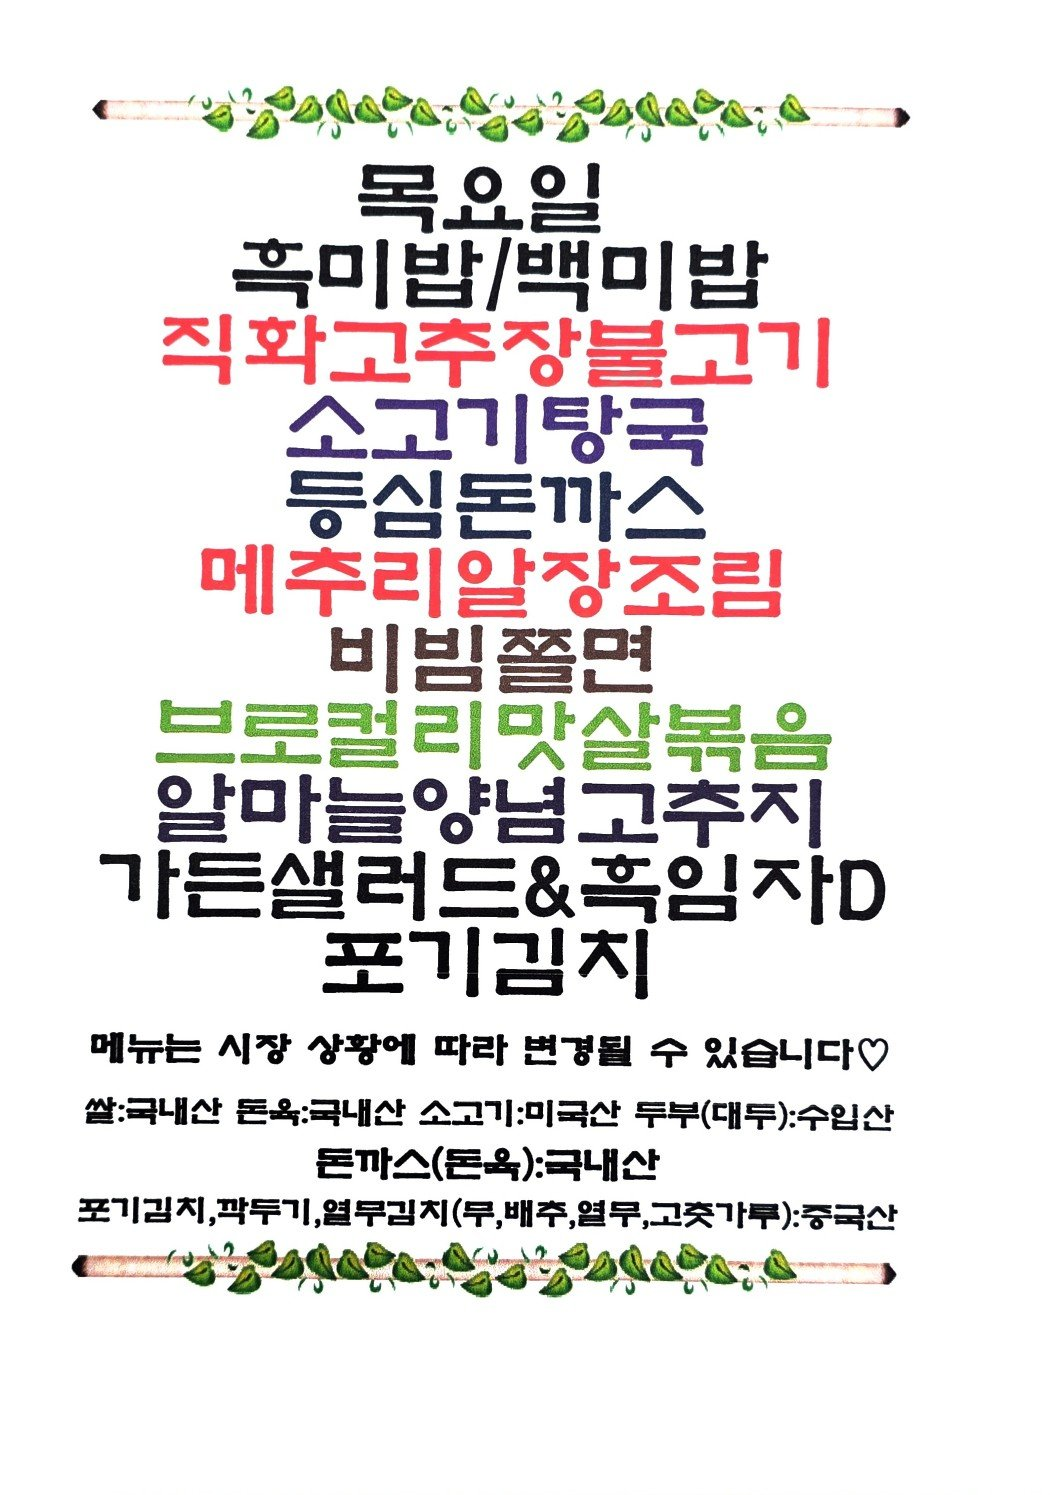
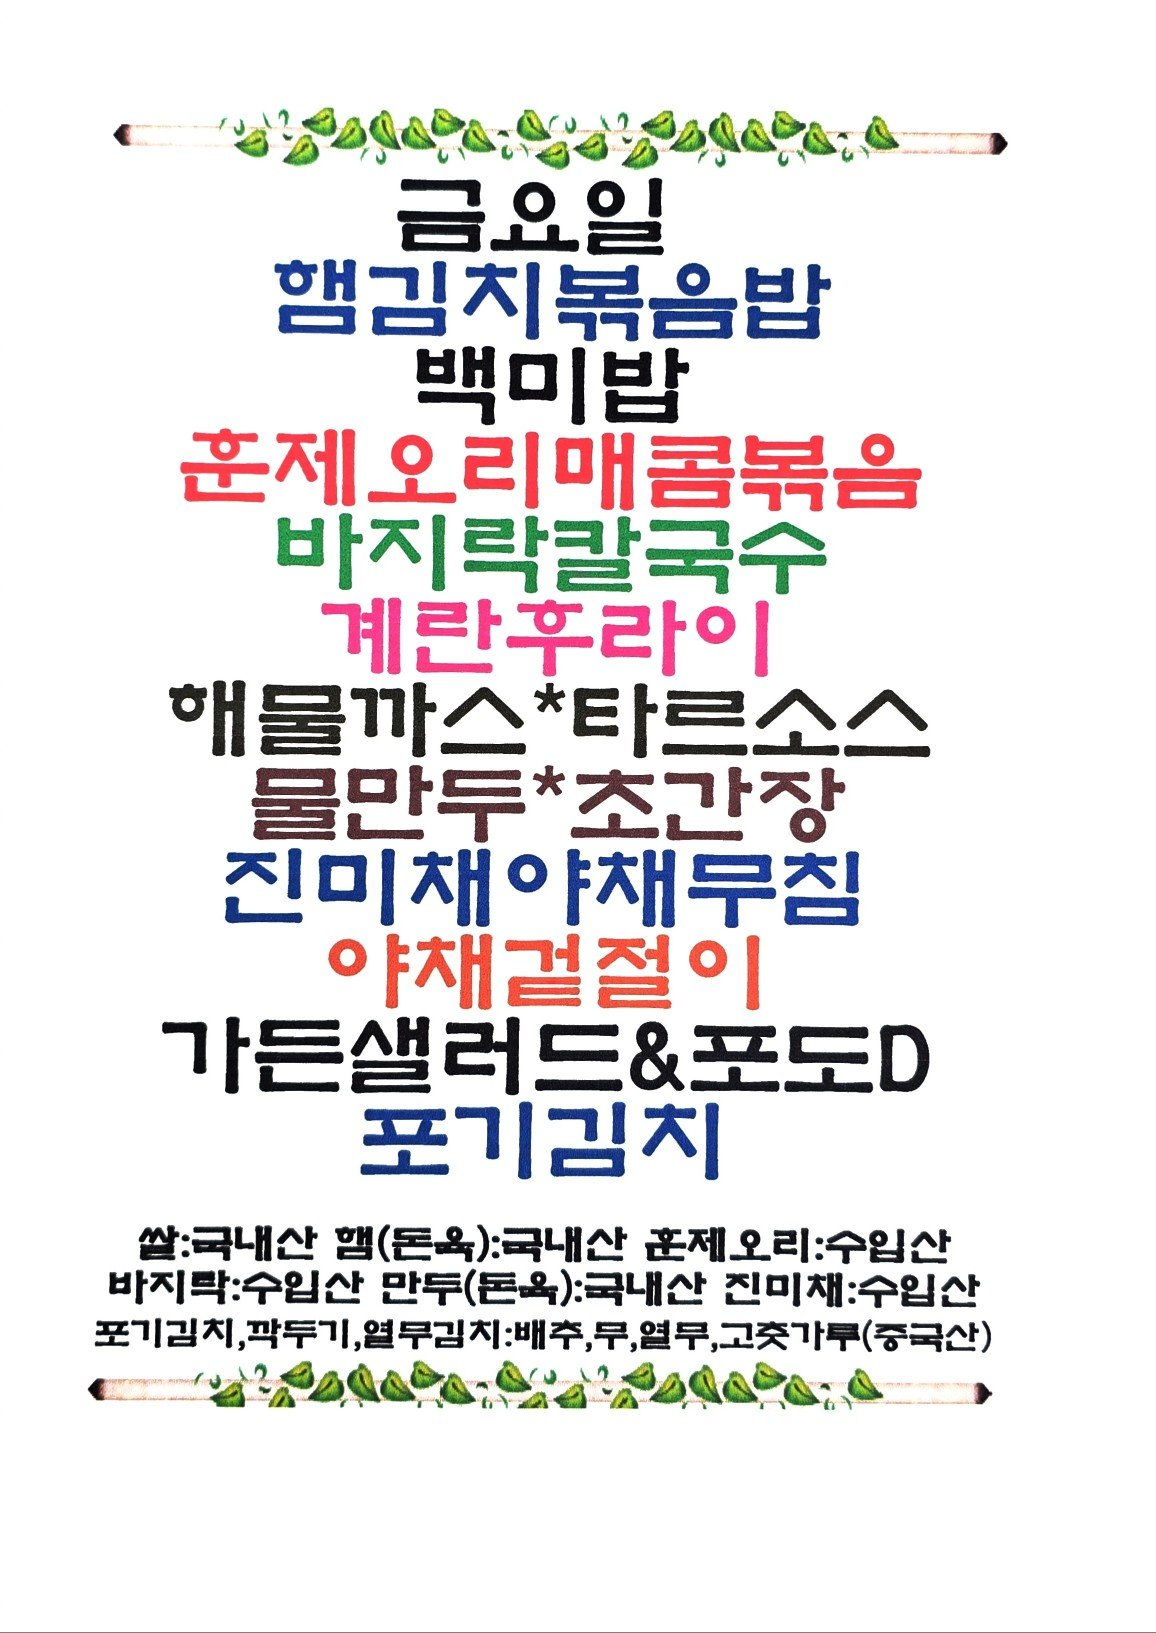
Update menu board assets

Changed region(s): [[0.061, 0.0615, 0.8838, 0.8923]]

diff --git a/menu-today/index.html b/menu-today/index.html
@@ -209,7 +209,7 @@
 
     <section class="meta-bar">
       <div class="meta-card"><div class="meta-label">기준 날짜</div><div class="meta-value">2026년 9월 18일 금요일</div></div>
-      <div class="meta-card"><div class="meta-label">최종 가져온 시간</div><div class="meta-value">2026-09-18 09:47:47</div></div>
+      <div class="meta-card"><div class="meta-label">최종 가져온 시간</div><div class="meta-value">2026-09-18 10:02:50</div></div>
       <div class="meta-card"><div class="meta-label">확인 완료</div><div class="meta-value">9개 식당</div></div>
       <div class="meta-card"><div class="meta-label">준비중</div><div class="meta-value">3개 채널</div></div>
     </section>
@@ -295,7 +295,7 @@
             <div class="sub">에이스테크노타워10차</div>
           </div>
         </div>
-        <div class="menu-inline-image"><img src="./images/thefoodsketch.png" alt="더푸드스케치 식단 이미지"></div><ul><li>전 때</li><li>닭공탕</li><li>숫불돼지갈비구이</li><li>고구마맛탕</li><li>그 몬테크리스토</li><li>치즈떡볶이</li><li>유자무쌈</li><li>가든샐러드 / 드레싱</li><li>배주껄절이 / 음료</li></ul>
+        <div class="menu-inline-image"><img src="./images/thefoodsketch.png" alt="더푸드스케치 식단 이미지"></div><ul><li>전 때</li><li>닭공탕</li><li>숫불돼지갈비구이</li><li>고구마맛탕</li><li>그 몬테크리스토</li><li>치즈떡볶이</li><li>유자무쌈</li><li>가든샐러드 &amp; 드레싱</li><li>배주껄절이 / 음료</li></ul>
       </article>
 
       <article class="restaurant-card">
@@ -305,7 +305,7 @@
             <div class="sub">스타밸리</div>
           </div>
         </div>
-        <div class="menu-inline-image"><img src="./images/starvalley-food4u-post.png" alt="스타밸리푸드포유 식단 이미지"></div><div class="info-note">오늘 메뉴 미수집 상태입니다.</div>
+        <div class="menu-inline-image"><img src="./images/starvalley-food4u-post.png" alt="스타밸리푸드포유 식단 이미지"></div><ul><li>준제.오리매콤볶슴</li><li>바지락칼국수</li><li>해물까스&quot;타르소스</li><li>불만두^초간장</li><li>진미재야재무짐</li><li>야재겉절이</li><li>가든샐러드 &amp; 포도D</li></ul>
       </article>
     </section>
 

diff --git a/guro-menu/index.html b/guro-menu/index.html
@@ -32,7 +32,7 @@
   </header>
   <section class="meta">
     <div><small>기준 날짜</small><strong>2026년 9월 18일 금요일</strong></div>
-    <div><small>최종 갱신</small><strong>2026-09-18 09:48:02</strong></div>
+    <div><small>최종 갱신</small><strong>2026-09-18 10:03:03</strong></div>
     <div><small>등록 식당</small><strong>5개</strong></div>
   </section>
   <div class="notice">공개 카카오 채널의 메뉴 이미지를 자동 수집하고 OCR로 정리합니다. 텍스트에 오타가 있을 수 있으니 식단 이미지를 함께 확인해 주세요.</div>
